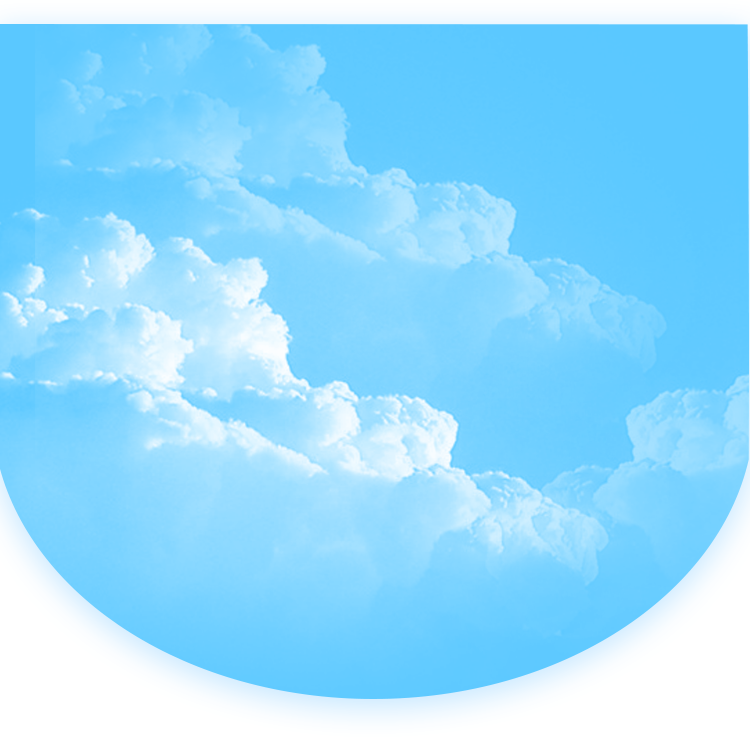
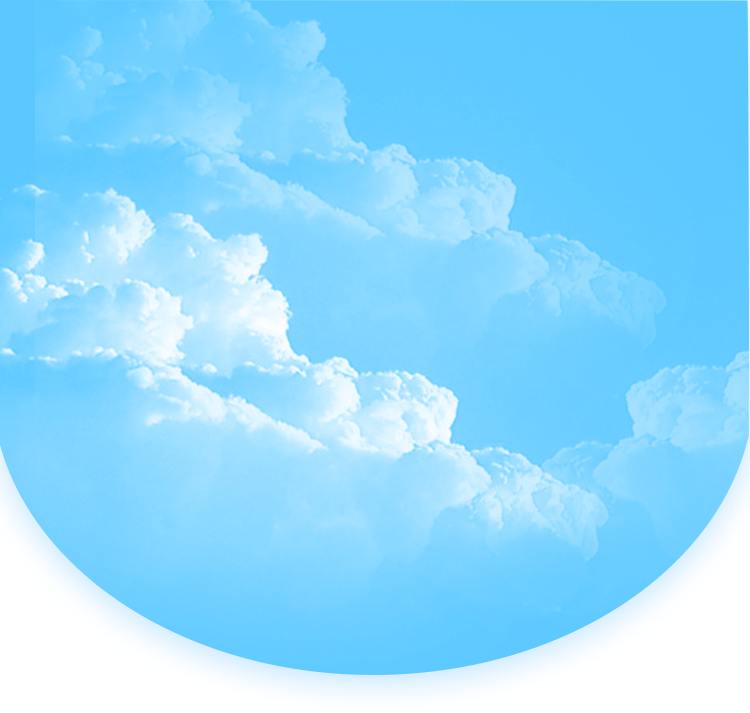
’我的‘界面颜色统一，修改背景

diff --git a/project/Application/Home/View/Users/mine.html b/project/Application/Home/View/Users/mine.html
@@ -14,8 +14,15 @@
 <link rel="stylesheet" type="text/css" href="__PUBLIC__/Home/css/iconfontHome.css">
 <title>个人信息</title>
 <style>
+	#mine-first-top>.mine-pic>p {
+		color: #039CE9;
+		font-weight: 600;
+	}
 	#mine-first-all {
 	    padding-top: 8vh;
+	}
+	.bgTop {
+   		background: url(__PUBLIC__/Home/images/mine-first-02.png) no-repeat;
 	}
 	#mine-first-container {
 		margin: 0rem 0.4rem 0.0rem 0.4rem;
@@ -75,13 +82,13 @@
 	.edit {
 		width: 100%;
 		position: absolute;
-		bottom: -8px;
+		bottom: 8px;
 		text-align: center;
 	}
 	.infoBtn{
 		border-radius:5px; 
 		padding:2px 12px; 
-		border:1px solid #ccc;
+		border:1px solid #2eacec;
 	}
 	#m-f-list>ul>li>a>i {
 		color: #E69A3F;
@@ -118,7 +125,7 @@
 </style>
 </head> 
 <body>
-<div id="mine-first-all" class="mine-first-all" >
+<div id="mine-first-all" class="mine-first-all bgTop" >
 	<a id="back2Home" href="{{:U('Home/index/index')}}"><i class="iconfont icon-zhuye"></i></a>
 	<div id="mine-first-container">
 		<div id="mine-first-top">

diff --git a/project/Public/Home/js/mine-first.js b/project/Public/Home/js/mine-first.js
@@ -11,6 +11,7 @@ $(function(){
 		$(this).css('display','none');
 		$('.mine-name').css('display','none');
 		$('.xia').css('display','block');
+		$('#mine-first-all').addClass('bgTop');
 		$('#mine-first-all').removeClass('mine-first-all')
 	});
 });
@@ -20,6 +21,7 @@ $(function(){
 		$(this).css('display','none');
 		$('.shang').css('display','block');
 		$('.mine-name').css('display','block')
+		$('#mine-first-all').removeClass('bgTop');
 		$('#mine-first-all').addClass('mine-first-all');
 	});
 });
